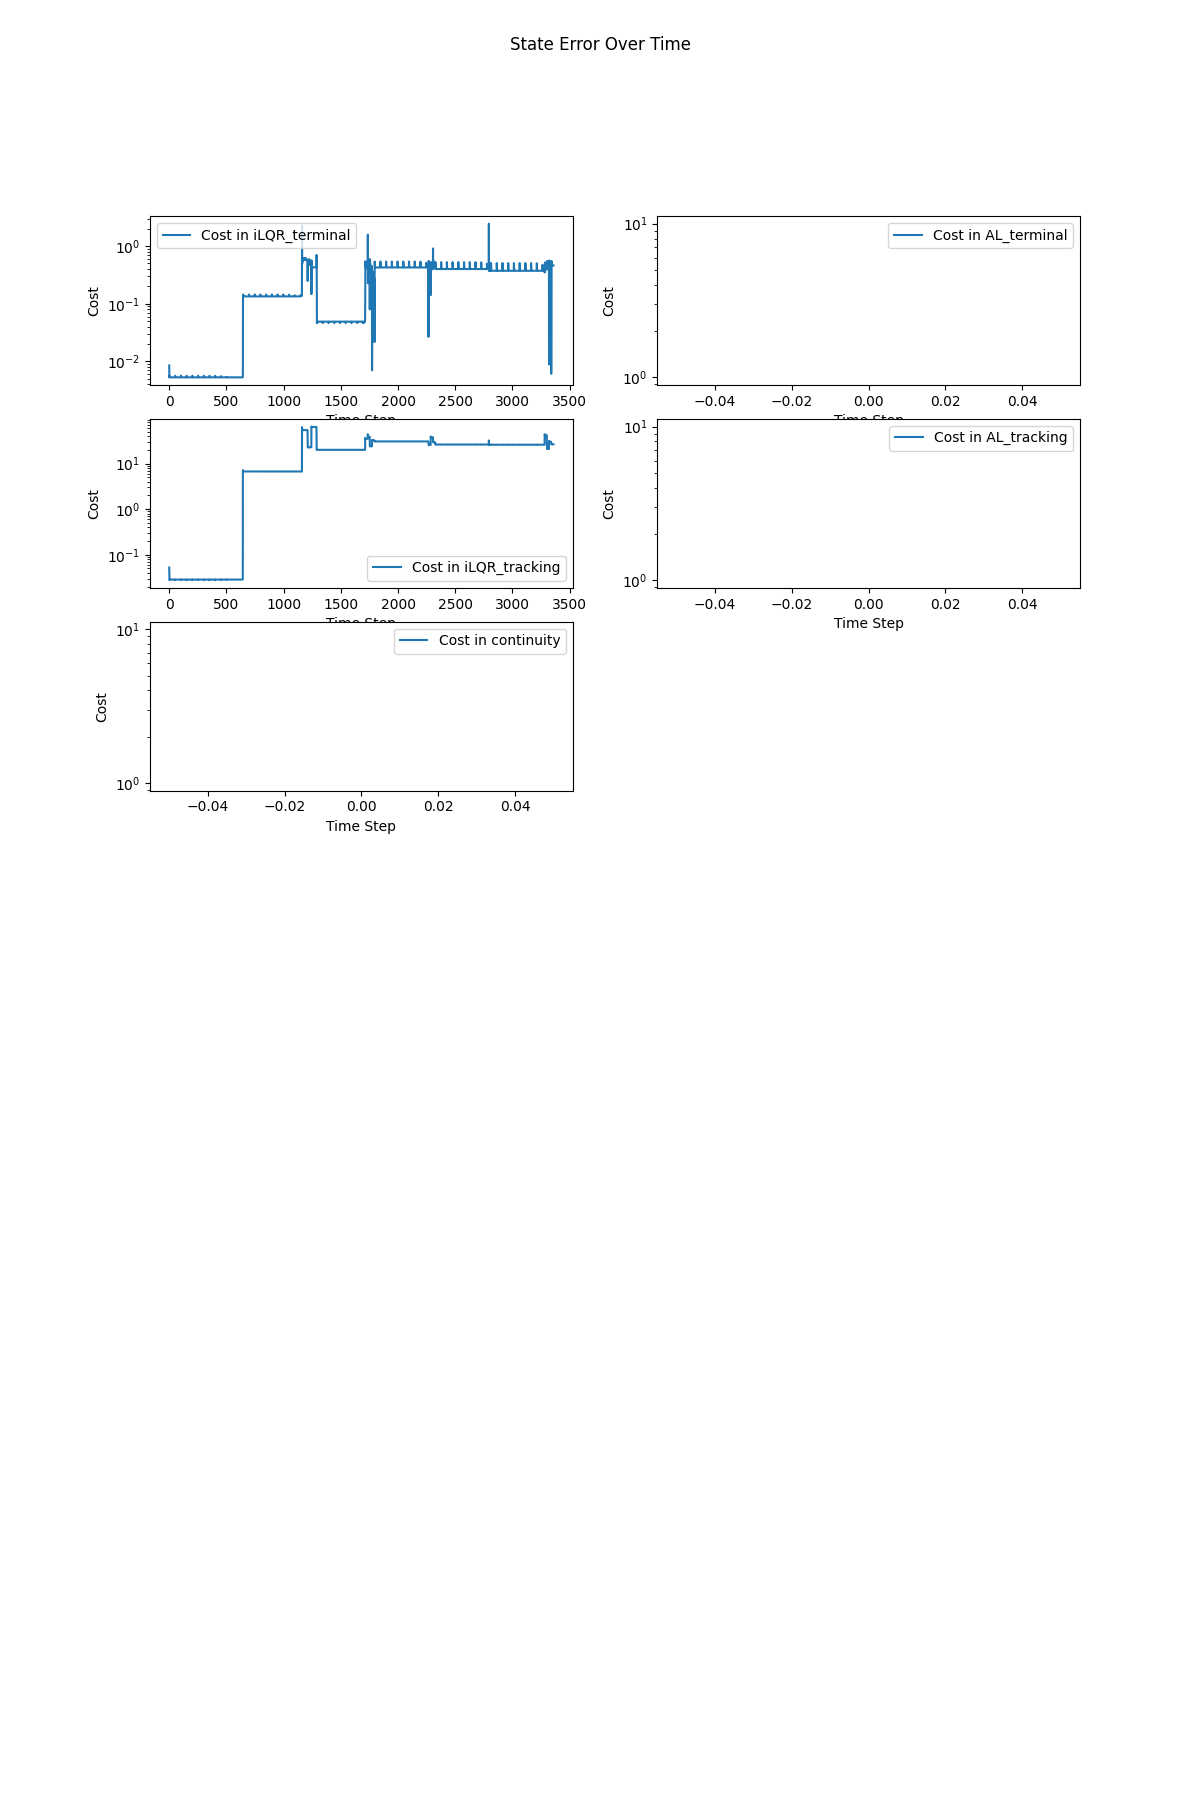
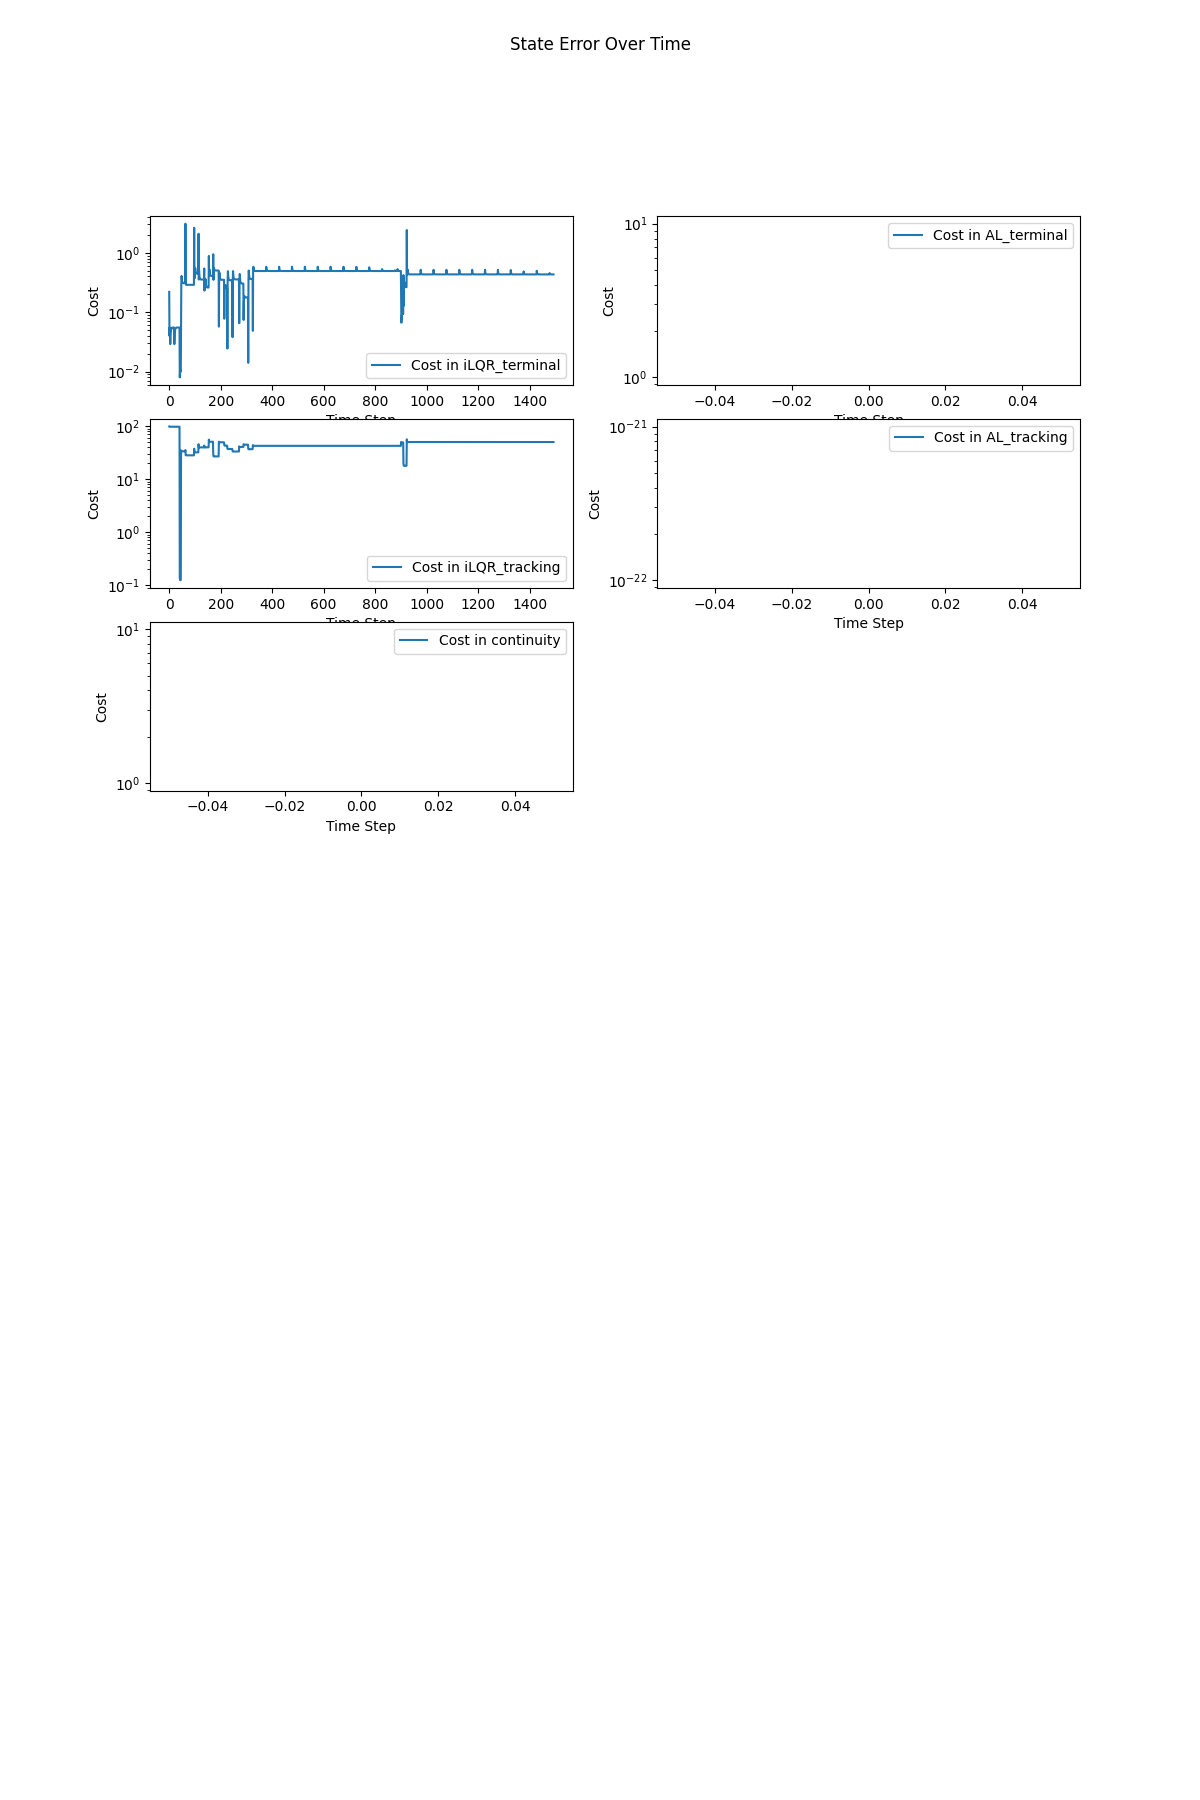
added cache to SCvxSolver

diff --git a/src/policies/cvxguidance.py b/src/policies/cvxguidance.py
@@ -359,6 +359,7 @@ class SCvxSolver:
             eps=1e-3,
             eps_ss=1e-4,
             verbose=False,
+            pull_from_cache=False
     ):
         self.dynamics = dynamics
         self.x_traj_init = x_traj_init
@@ -370,6 +371,7 @@ class SCvxSolver:
         self.eps = eps
         self.eps_ss = eps_ss
         self.verbose = verbose
+        self.pull_from_cache = pull_from_cache
 
         self.N = np.shape(self.x_traj_init)[0]
         self.n = self.dynamics.state_size()
@@ -626,113 +628,158 @@ class SCvxSolver:
         - λinit
         - nu_max
         """
-        # Define previous trajectory
-        x_prev = np.copy(self.x_traj_init)
-        u_prev = np.copy(self.u_traj_init)
-        J_prev = np.inf
+        # Check if results cached for this
+        computation_inputs_state = (
+            self.x_traj_init,
+            self.u_traj_init,
+            self.x_start,
+            self.x_goal,
+            self.sdf.computation_inputs,
+            self.sig,
+            self.eps,
+            self.eps_ss,
+            max_iters,
+            "state"
+        )
+        computation_inputs_action = (
+            self.x_traj_init,
+            self.u_traj_init,
+            self.x_start,
+            self.x_goal,
+            self.sdf.computation_inputs,
+            self.sig,
+            self.eps,
+            self.eps_ss,
+            max_iters,
+            "action"
+        )
 
-        # Define trust region parameters
-        αx = 1.
-        αu = 0
-        ηinit = 1.
-        η = np.copy(ηinit)
-        
-        # Define virtual control penalty
-        λinit = 30.
-        λ = np.copy(λinit)
-        nu_max = 1.
+        # Get state and action cachers
+        cacher_state = Cacher(computation_inputs_state)
+        cacher_action = Cacher(computation_inputs_action)
 
-        # Define SCvx convergence variables
-        iters = 1
-        converged = False
-
-        # Logs
+        # Create variables for state and action histories and logging
+        optimal_action_history = None
+        optimal_state_history = None
         logs_per_iter = []
 
-        # SCvx loop
-        while (iters <= max_iters) and (not converged):
-            # Print Info
-            self._print("SCvx Iteration " + str(iters))
-            self._print("   λ: " + str(λ))
-            self._print("   η: " + str(η))
-            self._print("   nu_max: " + str(nu_max))
+        # Check if cache available
+        if self.pull_from_cache and cacher_state.exists() and cacher_action.exists():
+            optimal_action_history = cacher_action.load()
+            optimal_state_history = cacher_state.load()
+        else:
+            # Define previous trajectory
+            x_prev = np.copy(self.x_traj_init)
+            u_prev = np.copy(self.u_traj_init)
+            J_prev = np.inf
 
-            # Create convex variables
-            x = cvx.Variable((self.N,self.n))
-            u = cvx.Variable((self.N - 1,self.m))
-            nu = cvx.Variable((self.N - 1,self.n))
-            slack_sdf = cvx.Variable((self.N,self.nss))
-
-            # Get problem constraints
-            constraints = []
-            constraints += self.boundary_constraints(x)
-            # constraints += [x[0] == self.x_start]
-            # if nu_max <= 1:
-            #     constraints += [x[-1] == self.x_goal]
-            constraints += self.dynamic_constraints(x,u,nu,x_prev,u_prev,nu_max)
-            constraints += self.set_constraints(x,u)
-            constraints += self.trust_region_constraints(x,u,x_prev,u_prev,αx,αu,η)
-            constraints += self.sdf_constraints(x,x_prev,slack_sdf)
-
-            # Get problem objective
-            objective, control_objective, distance_objective, virtual_control_objective, sdf_objective = self.objective_update(x,u,slack_sdf,nu,λ)
-
-            # Solve problem
-            prob = cvx.Problem(cvx.Minimize(objective),constraints)
-            try:
-                prob.solve(solver=cvx.CLARABEL)
-            except:
-                η, λ, nu_max = self.solve_failed(η,λ,nu_max,1)
-                continue
-            if not(prob.status == cvx.OPTIMAL or prob.status == cvx.OPTIMAL_INACCURATE):
-                η, λ, nu_max = self.solve_failed(η,λ,nu_max,1)
-                continue
-            else:
-                η, λ, nu_max = self.solve_failed(η,λ,nu_max,0)
-            J = prob.value
-
-            # Check convergence criteria
-            no_change = np.allclose(x.value,x_prev)
-            if ((abs(J_prev - J) < self.eps) and (np.max(np.abs(nu.value)) < self.eps)) or no_change: # TODO don't be stupid
-                converged = True
+            # Define trust region parameters
+            αx = 1.
+            αu = 0
+            ηinit = 1.
+            η = np.copy(ηinit)
             
-            # Display improvement
-            self._print("   Cost improvement: " + str(J_prev - J))
-            self._print("   Max Virtual Control: " + str(np.max(np.abs(nu.value))))
-            self._print("   Control Objective: " + str(control_objective.value))
-            self._print("   Distance Objective: " + str(distance_objective.value))
-            self._print("   Virtual Control Objective: " + str(virtual_control_objective.value))
-            self._print("   SDF Objective: " + str(sdf_objective.value))
+            # Define virtual control penalty
+            λinit = 30.
+            λ = np.copy(λinit)
+            nu_max = 1.
 
-            # Penalize virtual control
-            # if (np.linalg.norm(nu.value,np.inf)) > self.eps and (λ < λmax):
-            #     λ *= λscale
-            #     η /= ηscale
+            # Define SCvx convergence variables
+            iters = 1
+            converged = False
 
-            # Store new previous trajectory
-            x_prev = np.copy(x.value)
-            u_prev = np.copy(u.value)
-            J_prev = np.copy(J)
+            # SCvx loop
+            while (iters <= max_iters) and (not converged):
+                # Print Info
+                self._print("SCvx Iteration " + str(iters))
+                self._print("   λ: " + str(λ))
+                self._print("   η: " + str(η))
+                self._print("   nu_max: " + str(nu_max))
 
-            # 
-            log_per_iter = {"x":x_prev,
-                            "u":u_prev,
-                            "nu":nu.value,
-                            "J":J_prev,
-                            "u_cost":control_objective.value,
-                            "x_cost":distance_objective.value,
-                            "nu_cost":virtual_control_objective.value,
-                            "sdf_cost":sdf_objective.value,
-                            }
-            logs_per_iter.append(log_per_iter)
+                # Create convex variables
+                x = cvx.Variable((self.N,self.n))
+                u = cvx.Variable((self.N - 1,self.m))
+                nu = cvx.Variable((self.N - 1,self.n))
+                slack_sdf = cvx.Variable((self.N,self.nss))
 
-            if plot_progress_helper is not None:
-                plot_progress_helper(x_prev,u_prev,iters,logs_per_iter)
+                # Get problem constraints
+                constraints = []
+                constraints += self.boundary_constraints(x)
+                # constraints += [x[0] == self.x_start]
+                # if nu_max <= 1:
+                #     constraints += [x[-1] == self.x_goal]
+                constraints += self.dynamic_constraints(x,u,nu,x_prev,u_prev,nu_max)
+                constraints += self.set_constraints(x,u)
+                constraints += self.trust_region_constraints(x,u,x_prev,u_prev,αx,αu,η)
+                constraints += self.sdf_constraints(x,x_prev,slack_sdf)
 
-            # Add iters
-            iters += 1
+                # Get problem objective
+                objective, control_objective, distance_objective, virtual_control_objective, sdf_objective = self.objective_update(x,u,slack_sdf,nu,λ)
 
-        return x.value,u.value,logs_per_iter
+                # Solve problem
+                prob = cvx.Problem(cvx.Minimize(objective),constraints)
+                try:
+                    prob.solve(solver=cvx.CLARABEL)
+                except:
+                    η, λ, nu_max = self.solve_failed(η,λ,nu_max,1)
+                    continue
+                if not(prob.status == cvx.OPTIMAL or prob.status == cvx.OPTIMAL_INACCURATE):
+                    η, λ, nu_max = self.solve_failed(η,λ,nu_max,1)
+                    continue
+                else:
+                    η, λ, nu_max = self.solve_failed(η,λ,nu_max,0)
+                J = prob.value
+
+                # Check convergence criteria
+                no_change = np.allclose(x.value,x_prev)
+                if ((abs(J_prev - J) < self.eps) and (np.max(np.abs(nu.value)) < self.eps)) or no_change: # TODO don't be stupid
+                    converged = True
+                
+                # Display improvement
+                self._print("   Cost improvement: " + str(J_prev - J))
+                self._print("   Max Virtual Control: " + str(np.max(np.abs(nu.value))))
+                self._print("   Control Objective: " + str(control_objective.value))
+                self._print("   Distance Objective: " + str(distance_objective.value))
+                self._print("   Virtual Control Objective: " + str(virtual_control_objective.value))
+                self._print("   SDF Objective: " + str(sdf_objective.value))
+
+                # Penalize virtual control
+                # if (np.linalg.norm(nu.value,np.inf)) > self.eps and (λ < λmax):
+                #     λ *= λscale
+                #     η /= ηscale
+
+                # Store new previous trajectory
+                x_prev = np.copy(x.value)
+                u_prev = np.copy(u.value)
+                J_prev = np.copy(J)
+
+                # 
+                log_per_iter = {"x":x_prev,
+                                "u":u_prev,
+                                "nu":nu.value,
+                                "J":J_prev,
+                                "u_cost":control_objective.value,
+                                "x_cost":distance_objective.value,
+                                "nu_cost":virtual_control_objective.value,
+                                "sdf_cost":sdf_objective.value,
+                                }
+                logs_per_iter.append(log_per_iter)
+
+                if plot_progress_helper is not None:
+                    plot_progress_helper(x_prev,u_prev,iters,logs_per_iter)
+
+                # Add iters
+                iters += 1
+            
+            # Save state trajectory and actions
+            optimal_state_history = np.copy(x.value)
+            optimal_action_history = np.copy(u.value)
+
+            # Cache
+            cacher_action.save(optimal_action_history)
+            cacher_state.save(optimal_state_history)
+
+        return optimal_state_history,optimal_action_history,logs_per_iter
 
 # TODO
 class PolicyConvex:

diff --git a/src/main_228.py b/src/main_228.py
@@ -249,7 +249,8 @@ if __name__ == "__main__":
         x_start=state_initial,
         x_goal=state_goal,
         sdf=sdfs,
-        verbose=True
+        verbose=True,
+        pull_from_cache=True,
     )
 
     # Setup SCP iterations manually until exit condition is implemented
